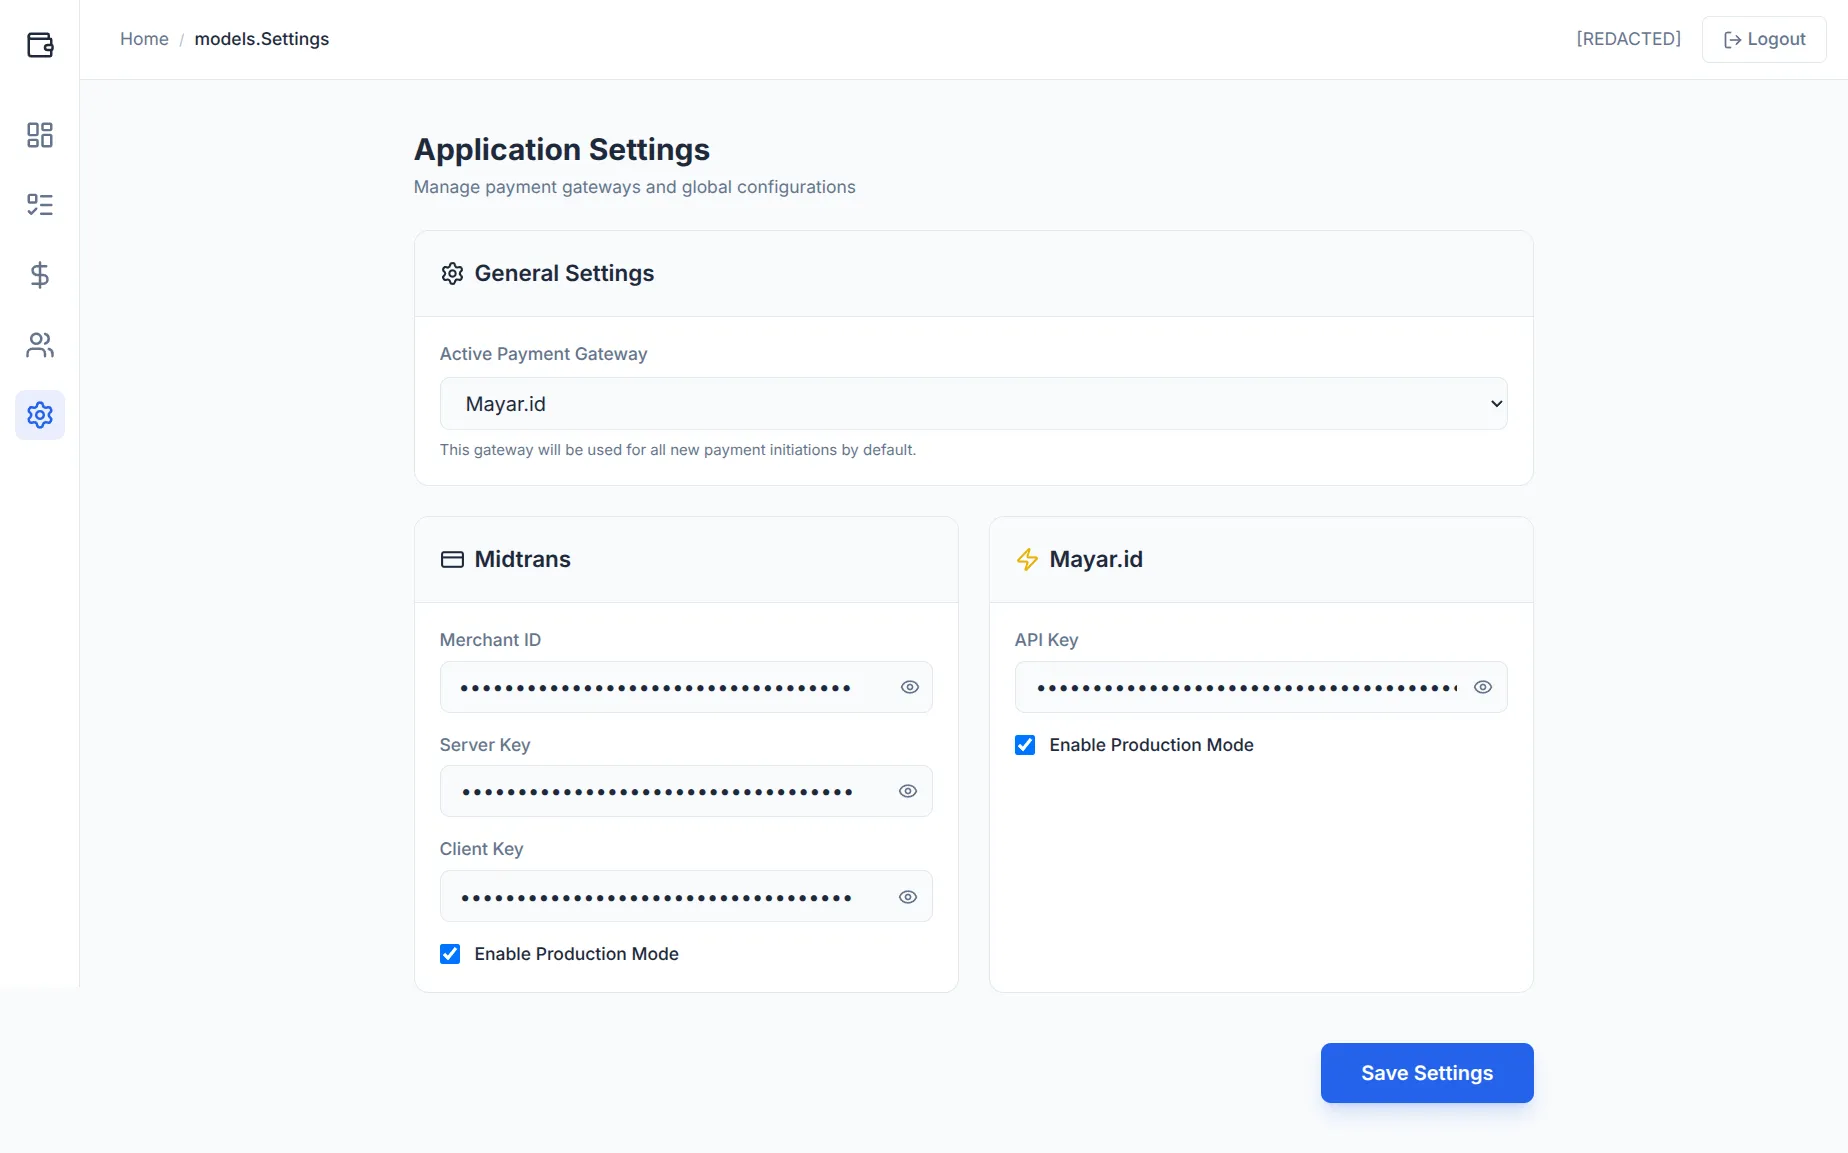
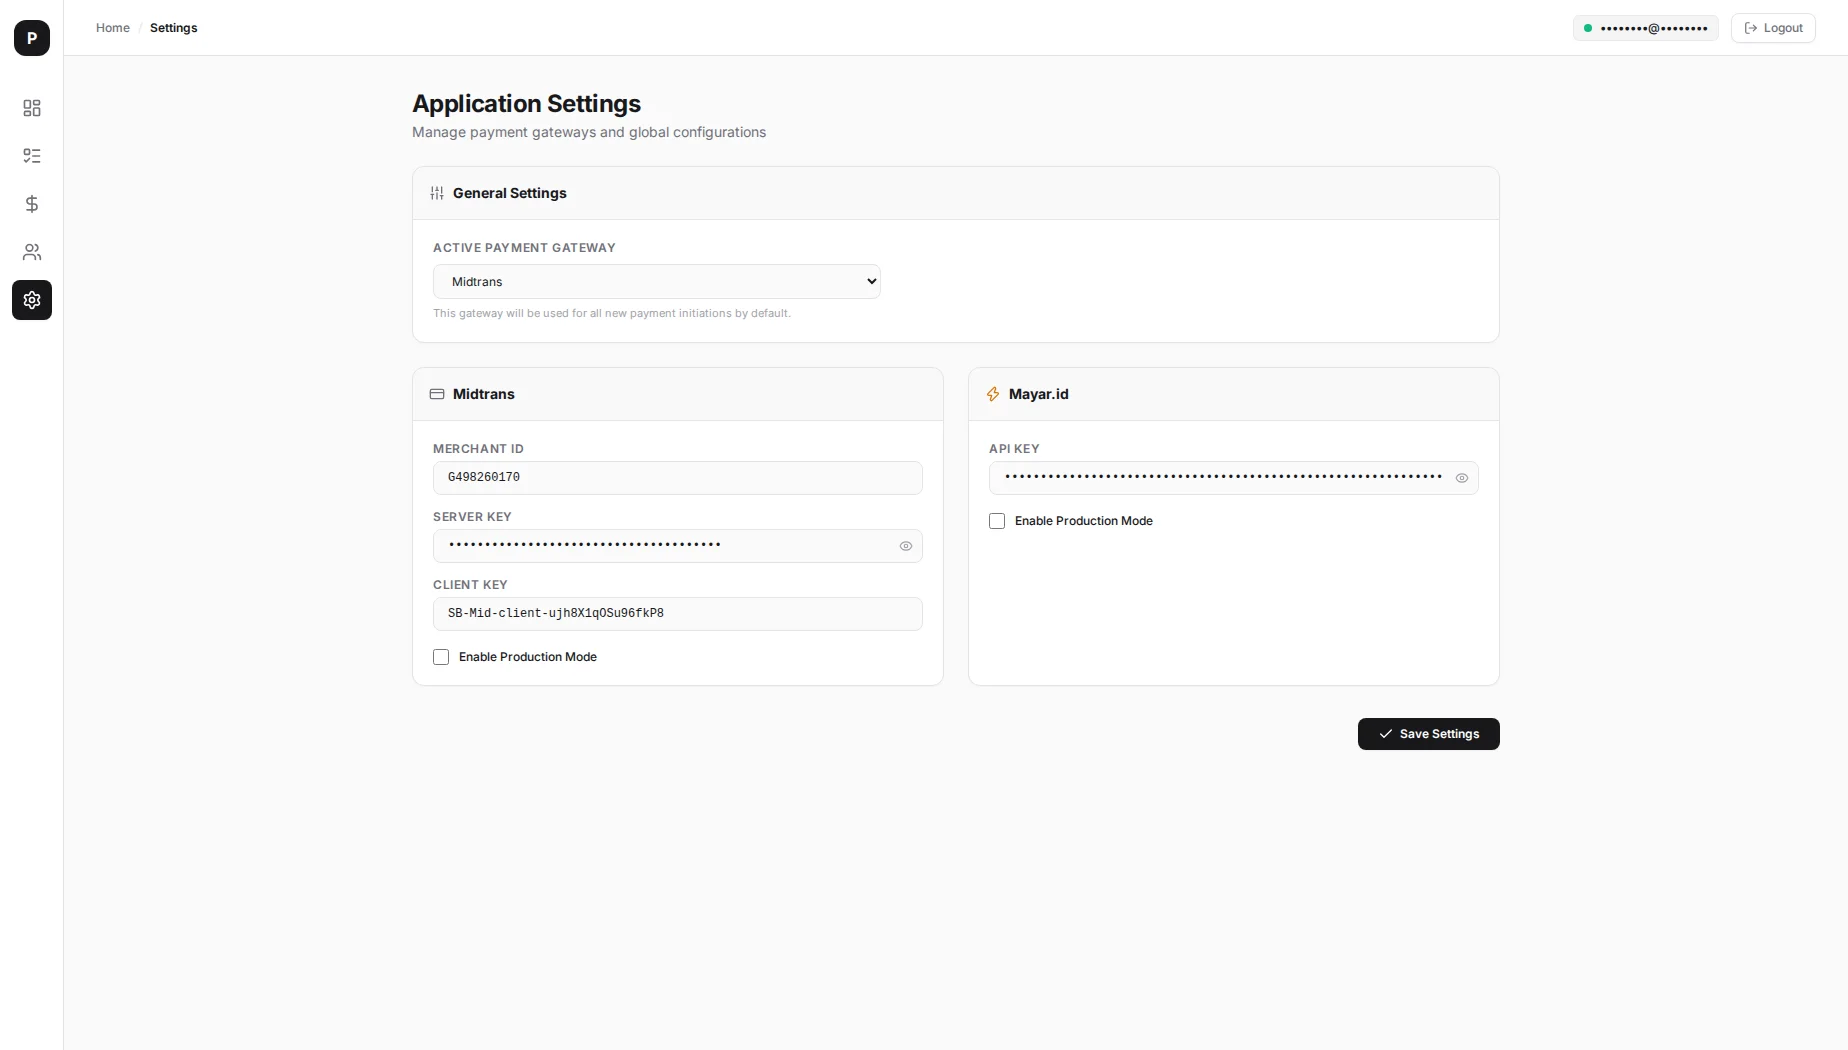
docs(showcase): recapture screenshots for v0.4.0 UI and update feature descriptions

diff --git a/showcase.md b/showcase.md
@@ -2,7 +2,7 @@
 
 This document provides a visual overview and technical description of the Patungan App interfaces.
 
-Built using Go (Echo), Templ, HTMX, and Tailwind CSS, the application offers a server-rendered user experience with dynamic, localized updates.
+Built using Go (Echo), Templ, HTMX, and Tailwind CSS, the application offers a server-rendered user experience with dynamic, localized updates. The codebase is organized into `internal/modules` (business services, repositories, scheduled tasks) and `internal/pages` (HTTP handlers and templates per audience: admin, member, public, auth).
 
 ---
 
@@ -24,9 +24,9 @@ The user entry point for authentication.
 ![Login Screen](docs/screenshots/login.webp)
 
 ### Key Technical Aspects:
-- **Firebase Authentication**: Uses the Firebase Admin SDK to handle session tokens and verification on the backend.
+- **Firebase Authentication**: Sign-in is handled by Firebase Auth with a single Google sign-in button, backed by the Firebase Admin SDK for token verification on the server.
+- **Session Cookies**: On success the backend exchanges the ID token for a secure, HTTP-only session cookie (valid for 5 days).
 - **Responsive Layout**: Scales to both desktop and mobile viewports.
-- **Form Validation**: Displays inline error messages and verification status upon validation failure.
 
 ---
 
@@ -37,9 +37,9 @@ The main dashboard providing an overview of active costing groups, outstanding d
 ![Dashboard](docs/screenshots/dashboard.webp)
 
 ### Key Technical Aspects:
-- **Metrics Grid**: Card elements showing total active plans, pending dues, paid invoices, and active members.
-- **Activity Log**: Displays recent transaction histories and payment status transitions.
-- **Dynamic Swaps**: Stats and logs are updated asynchronously using HTMX polling features.
+- **Metrics Grid**: Card elements showing active plans, pending dues, pending amount, and total paid to date.
+- **Upcoming Dues**: Table of the nearest subscription payments requiring attention, with one-click *Pay Now* shortcuts.
+- **Quick Actions**: Shortcut cards for managing plans, tracking payments, and managing members.
 
 ---
 
@@ -50,9 +50,9 @@ Allows administrators to define and organize cost-sharing plans and billing sche
 ![Plan Management](docs/screenshots/plans.webp)
 
 ### Key Technical Aspects:
-- **Plan Cards**: Displays the group name, description, cost, recurrence interval (weekly/monthly), and active participant count.
-- **Contextual Operations**: Access buttons to trigger due generation, view related bills, edit configurations, or archive plans.
-- **Modal Integrations**: Uses HTMX overlays to load creation/edition forms without requiring full-page navigation.
+- **Plan Cards**: Displays the group name, owner, cost, recurrence type (one-time/recurring), participant count with per-member cost, and status badges (Active, Dispatched, Manual).
+- **Contextual Operations**: Schedule due generation, edit, or delete plans directly from each card; the schedule dialog loads over the page via HTMX.
+- **Filtering and Sorting**: Narrow the list by owner and payment type, with configurable sort field and order.
 
 ---
 
@@ -63,9 +63,9 @@ Manages user list, contact details, and account activation states.
 ![User Directory](docs/screenshots/users.webp)
 
 ### Key Technical Aspects:
-- **Asynchronous Search**: Table content filters instantly on keypress events using `hx-trigger="keyup changed delay:300ms"`.
-- **Status Indicators**: Badges display user states (Active, Pending, or Inactive).
-- **Communication Fields**: Shows configured email addresses and WhatsApp contact numbers.
+- **Directory Table**: Lists each user's name, email, phone, and role badge (Admin or Member).
+- **User Management**: Create and edit users through dedicated forms; activate, update contact details, or remove accounts.
+- **Notification Preferences**: Per-user communication settings (email/WhatsApp) load in an HTMX-driven modal from the row's bell action.
 
 ---
 
@@ -76,9 +76,9 @@ Tracks payment cycles, billing items, and payment progress for specific plans.
 ![Payment Dues By Plan](docs/screenshots/payment-dues-by-plan-fixed.webp)
 
 ### Key Technical Aspects:
-- **Cycle Filtering**: Displays payment status organized by specific billing dates.
-- **Reminders Engine**: Integrated with WAHA (WhatsApp HTTP API) to dispatch payment notices directly to user accounts or groups.
-- **Manual Verification**: Admins can override payment statuses manually to record offline settlements.
+- **Multiple Views**: Toggle between All Dues, By Plan, By Period, and By User, with plan/user filters and sorting applied via HTMX partial swaps.
+- **Per-Fee Actions**: Copy the member's payment link, trigger gateway checkout, re-check gateway status, or manually mark a due as complete.
+- **Reminder Engine**: Payment notices are dispatched by the notification module (email via SMTP, WhatsApp via WAHA) through scheduled tasks.
 
 ---
 
@@ -89,9 +89,9 @@ The portal interface shown to users during checkout.
 ![Payment Due Portal](docs/screenshots/payment-due-payment.webp)
 
 ### Key Technical Aspects:
-- **Invoice Breakdown**: Details the base cost, service fees, taxes, and final payable sum.
-- **Gateway Integration**: Directly linked with Midtrans and Mayar.id checkout processes.
-- **Automatic Callbacks**: Midtrans/Mayar payment webhooks handle automated transaction verification and database updates.
+- **Tokenized Access**: Each due is reachable via a public, unguessable URL (`/p/:uuid`) — no login required for members.
+- **Invoice Summary**: Shows the total amount due, payment status, subscription plan, member details, due date, and portion split.
+- **Gateway Checkout**: *Pay Now* initiates a Midtrans or Mayar.id session, with a *Check Status* action for polling; payment webhooks verify transactions and update the database automatically.
 
 ---
 
@@ -102,9 +102,9 @@ Administrative settings for system-wide variables and credentials.
 ![System Settings](docs/screenshots/settings.webp)
 
 ### Key Technical Aspects:
-- **Gateway Keys**: Interface to configure production and sandbox API keys for Midtrans and Mayar.id.
-- **Notification Routing**: Toggle options to enable or disable notification dispatches across email, WhatsApp personal chats, or WhatsApp groups.
-- **Integration Diagnostics**: Simple dashboard elements showing API and database connection states.
+- **Active Gateway**: A global selector decides which payment gateway (Midtrans or Mayar.id) handles new payment initiations by default.
+- **Gateway Keys**: Configure Midtrans merchant/server/client keys and the Mayar.id API key, each with a production-mode toggle; secrets are masked in the UI.
+- **Persistence**: Settings are stored server-side and applied application-wide on save.
 
 ---
 
